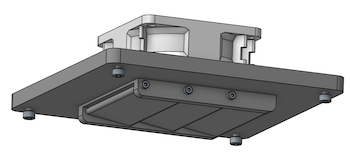
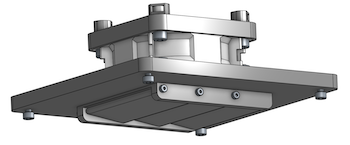
update with snorkle

diff --git a/README.md b/README.md
@@ -6,27 +6,31 @@
 [![heater](./photos/petc-heater-small.png)](./photos/petc-heater.png)
 [![psu](./photos/petc-psu-small.png)](./photos/petc-psu.png)
 [![fan](./photos/petc-fan-small.png)](./photos/petc-fan.png)
+[![fan hose coupler](./photos/petc-fan-hose-coupler-small.png)](./photos/petc-fan-hose-coupler.png)
+[![snorkle transport handle](./photos/petc-snorkle-transport-handle-small.png)](./photos/petc-snorkle-transport-handle.png)
+[![xbuddy board snorkle cover](./photos/petc-xbuddy-board-snorkle-cover-small.png)](./photos/petc-xbuddy-board-snorkle-cover.png)
 
-[(more photos)](./photos/photos) [(schematic)](./photos/petc_schematic.jpg)
+[(more photos)](https://photos.app.goo.gl/Emhybk4XVMSFG9o47) [(video)](https://youtube.com/shorts/DhWX0z7hWWk) [(schematic)](./photos/petc_schematic.jpg)
 
 This is an enclosure temperature controller for 3D printers.  I was inspired by [Lars' Automated Heating System for Original Enclosure](https://www.printables.com/model/561491-automated-heating-system-for-original-enclosure), but I wanted a different [feature set](#features).  The code and documentation of this project are under the [MIT License](./LICENSE.txt).  The mechanical CAD is an [OnShape](https://www.onshape.com) [public document](https://cad.onshape.com/documents/f44140cba6f8b67dad0ae1df/w/266792716668dc913b5493d9/e/d40b23f5562de2835c96fe1f) which has MIT-like [license terms](https://www.onshape.com/en/legal/terms-of-use).
 
 There are pros and cons to experimenting with adding active heating or cooling to the enclosure of a 3D printer that was not specifically designed for it.  Of course, there can be dangers including fire hazards and the possibility of melting parts of your printer.  **If you use the information provided here, you do so at your own risk.**  I am only experimenting with this myself, and I make no claims as to the suitability or safety of any of this information.  Until fairly recently, Stratasys held key patents regarding 3D printers with heated build chambers.  It is my understanding that these patents have now effectively [expired](https://3dprintingindustry.com/news/stratasys-heated-build-chamber-for-3d-printer-patent-us6722872b1-set-to-expire-this-week-185012).
 
-I'm using a Prusa MK4 with an [Original Prusa Enclosure](https://www.prusa3d.com/product/original-prusa-enclosure), though where possible I've tried to make the design agnostic to the specifics of the printer and enclosure.  There are some mounting features that make it fit this Prusa setup nicely, but it should be adaptable to other configurations without too much difficulty.
+I'm using a Prusa MK4S with an [Original Prusa Enclosure](https://www.prusa3d.com/product/original-prusa-enclosure), though where possible I've tried to make the design agnostic to the specifics of the printer and enclosure.  There are some mounting features that make it fit this Prusa setup nicely, but it should be adaptable to other configurations without too much difficulty.
 
 ## Heating and Cooling
-Some materials, including PLA, prefer relatively cool air temperatures.  While PLA is generally considered easy to print on non-enclosed printers, if your printer is in an enclosure, you may experience issues with PLA due to ambient heating from the printer bed.  In my experience even leaving the enclosure doors open may not always be sufficient.  This controller allows you to add a fan to your enclosure to actively exhaust the hot air and draw in more cool air from the room.
+Some materials, including PLA, prefer relatively cool air temperatures.  While PLA is generally considered easy to print on non-enclosed printers, if your printer is in an enclosure, PLA prints may have issues due to ambient heating from the printer bed.  In my experience even leaving the enclosure doors open may not always be sufficient.  This controller allows you to add a fan to your enclosure to actively exhaust the hot air and draw in more cool air from the room.
 
-Other materials, including ABS, ASA, Nylon (PA), and polycarbonate (PC), perfer relatively hot air temperatures to reduce warping and improve layer adhesion during printing.  And these materials can be desirable for some applications for their mechanical properties and temerature resistance.  This controller allows you to add an active heating element in the enclosure with closed loop control to increase the enclosure temperature more quickly and to maintain hotter temperatures than would typically be reached by the bed heater alone.
+Other materials, including ABS, ASA, Nylon (PA), and polycarbonate (PC), perfer relatively hot air temperatures to reduce warping and improve layer adhesion during printing.  And these "engineering" materials can be desirable for some applications for their mechanical properties and temerature resistance.  This controller allows you to add an active heating element in the enclosure with closed loop control to increase the enclosure temperature more quickly and to maintain hotter temperatures than would typically be reached by the bed heater alone.
 
-How hot is hot?  From what I've read, many of these materials would be happy with air temperatures in the range of 90C, and industrial printers with heated enclosures may use that type of temperature.  Unfortunately, many of the plastic and electronic parts in consumer 3D printers might become unstable at at that level.  For now this controller has a hardcoded limit of 45C, which is the same as [Lars'](https://www.printables.com/model/561491-automated-heating-system-for-original-enclosure).
+How hot is hot?  From what I've read, many of these materials would be happy with air temperatures in the range of 90C, and industrial printers with heated enclosures may use that type of temperature.  Unfortunately, many of the plastic and electronic parts in consumer 3D printers might become unstable at at that level.  However, by [some accounts](https://forum.prusa3d.com/forum/user-and-hardware-mods/heating-the-prusa-enclosure), even 40-45C can help significantly reduce warping in ABS and ASA prints.
 
-Of course there are a wide variety of printers now available, and some may be more compatible with higher temperatures than others.  Apparently Prusa [recommends a maximum enclosure temperature of 40C](https://forum.prusa3d.com/forum/postid/630914) for MK3S+, which ships with PETG parts with relatively poor high temperature stability.  This also probably applies to MK4, though Prusa is now switching some of the PETG parts to PC-CF on the MK4S, which has better stability at high temperatures.
+This controller initially had a hardcoded limit of 45C, which is the same as [Lars'](https://www.printables.com/model/561491-automated-heating-system-for-original-enclosure).  Temperatures higher than that tend to trigger automatic shutdown of the xBuddy control board on the Prusa MK4(S).  Also, most of the MK4 and MK4S printed parts from Prusa are made with PETG, which has relatively poor high temperature stability.  I eventally replaced all the PETG parts with PC-CF, which has better temperature stability, and added a "snorkle" setup which cools the buddy board with outside air, re-using the exhaust fan to pull the air through the snorkle.  This appears to allow enclosure temperatures up to about 60-65C.
 
-By [some accounts](https://forum.prusa3d.com/forum/user-and-hardware-mods/heating-the-prusa-enclosure) even 40-45C can help significantly reduce warping in ABS and ASA prints.  It might be possible to attempt up to around 60C by replacing plastic parts on the printer with higher temperature materials.  Several recent consumer 3D printers with heated enclosures reach temperatures around that, for example some [QiDi](https://qidi3d.com) printers go up to 60C or 65C, and the newly announded [Prusa Core One](https://www.prusa3d.com/product/prusa-core-one) has a heated enclosure with a 55C maximum temperature.
+There are a wide variety of printers now available, and some may be more suitable for higher temperatures than others.  Some [QiDi](https://qidi3d.com) printers go up to 60C or 65C.  The [Prusa Core One](https://www.prusa3d.com/product/prusa-core-one) can reach a maximum temperature of 55C, but is only heated "passively" by the print bed.  Apparently Prusa [recommends a maximum enclosure temperature of 40C](https://forum.prusa3d.com/forum/postid/630914) for MK3S+, though this may at least be in part due to the PETG parts.  This also probably applies to MK4, though Prusa is now switching some of the PETG parts to PC-CF on the MK4S.
 
-The 200W heating element seems able to easily maintain 44-45C during printing, but can take up to about an hour to initially heat up to that level from ~22C room temperature, even when also using the [heat bed set to 120C](./prusa-mk4-bed-preheat-120c-90m.gcode) to supplement the preheating.  I have [sealed](https://www.printables.com/model/537013-0073-xrivets-for-original-prusa-enclosure-ope-extr) most of the holes in the Original Prusa Enclosure but haven't yet added any insulation.
+
+The 300W heating element seems can take up to about an hour to initially preheat the chamber up to ~60C from room temperature, even when also using the [heat bed set to 120C](./prusa-mk4-bed-preheat-120c-90m.gcode) to supplement the preheating.  I have [sealed](https://www.printables.com/model/537013-0073-xrivets-for-original-prusa-enclosure-ope-extr) most of the holes in the Original Prusa Enclosure.  I also added reflective bubble foil [insulation](https://www.homedepot.com/p/Everbilt-24-in-x-10-ft-Double-Reflective-Insulation-Radiant-Barrier-24x10DRI/314983628) (rated to about 70C) inside the left, right, and rear walls, and a blanket of fiberglass insulation (stable up to about 500C) above the top of the enclosure.
 
 ## Features
 * printable parts designed in [OnShape](https://cad.onshape.com/documents/f44140cba6f8b67dad0ae1df/w/266792716668dc913b5493d9/e/d40b23f5562de2835c96fe1f)
@@ -34,13 +38,15 @@ The 200W heating element seems able to easily maintain 44-45C during printing, b
 * up to 8 hot pluggable daisy chained [DS18B20 1-Wire temperature sensors](https://www.sparkfun.com/products/18367) with 6ft leads
 * optional hot pluggable [DHT20 I2C temperature and humidity sensor](https://www.sparkfun.com/products/18364)
 * auto shutoff timer
-* multiple material profiles (e.g. cooling mode for PLA, heating mode for ABS, etc)
+* multiple material profiles (cooling mode for PLA, heating mode for ABS, etc)
 * front panel user interface with LCD and buttons shows current average temperature, min and max sensor temps, current humidity, current settings, and allows changing the profile, setting the shutoff timer, and manual adjustments to the operating mode and set temperatures
 * USB serial interface, can plug into e.g. a Raspberry PI TODO to expose a remote web interface
 * electronics box and power supply located outside the enclosure
-* can be built only for sensing, sensing+heating, sensing+cooling, or sensing+heating+cooling
+* can be built only for sensing, sensing+heating, sensing+cooling, sensing+heating+cooling, or sensing+heating+cooling+snorkle
 * optional exhaust fan for cooling mode
-* optional 200W 24V automotive [PTC heater](https://www.amazon.com/gp/product/B081P7L32X) with fan for heating mode
+* cooling fan exhaust flaps open passively with airflow and close with gravity
+* optional snorkle uses the cooling fan to pull in outside air to cool only the Prusa "xBuddy board" enclosure
+* optional 300W 24V automotive [PTC heater](https://www.amazon.com/gp/product/B081P7L32X) with fan for heating mode
 * no 3D printed parts touch the heater
 * optional LED to indicate when heater is active
 * hardware thermal cutoff attached to heater as a failsafe
@@ -57,7 +63,7 @@ It should also be possible to use this design as a starting point for various ot
 
 ## Building the Code
 
-If on OS X:
+OS X:
 ```
 brew install arduino-cli
 ```
@@ -106,16 +112,18 @@ arduino-cli compile --fqbn arduino:avr:uno -e -u -p /dev/cu.usbserial-110 .
 
 ## Hardware Installation
 
-Here are some images of the installed components in my setup.  The control box is mounted to the outside of the enclosure in the lower front left.  The heater and its fan are on an articulated mount halfway up the right rear corner of the enclosure.  The exhaust fan is mounted to the back in a cutout provided in the Prusa enclosure.  The heater and fan power supply is on the outside of the left side of the enclosure (also shown in the photo is a Raspberry Pi I've mounted to that side of the enclosure for cameras and TODO to make the temperature controller accessible on my local nework).  Wires are routed through and under the enclosure.  The sensors are not shown in the photos: a combined temperature and humidity sensor is mounted inside the enclosure at the lower front center.  Additional temperature sensors are (1) halfway up the front left corner, (2) two thirds of the way back on the lower left, (3) above the heater near the top of the enclosure.  The control software averages the readings of all the temperature sensors with optional weights.
+Here are some images of the installed components in my setup.  The control box is mounted to the outside of the enclosure in the lower front left.  The heater and its fan are on an articulated mount halfway up the right rear corner of the enclosure.  The exhaust fan is mounted to the back in a cutout provided in the Prusa enclosure.  The heater and fan power supply is on the outside of the left side of the enclosure; also shown in the photo is a Raspberry Pi I've mounted to that side of the enclosure for cameras and TODO to make the temperature controller accessible on the local nework.  Wires are routed through and under the enclosure, and no new holes need to be drilled.  The sensors are hard to see in the photos, but are more visibile in the [video](https://youtube.com/shorts/DhWX0z7hWWk).  A combined temperature and humidity sensor is mounted inside the enclosure at the lower front center.  Additional temperature sensors are (1) halfway up the front left corner, (2) two thirds of the way back on the lower left, and (3) above the heater near the top of the enclosure.  The control software averages the readings of all the temperature sensors with optional weights to estimate the temperature in the build volume.
 
-[![front view installed](./photos/petc-installed-front-small.png)](./photos/petc-installed-front-small.png)
-[![fan and psu installed](./photos/petc-installed-fan-and-psu-small.png)](./photos/petc-installed-fan-and-psu.png)
-[![controller installed](./photos/petc-installed-controller-small.png)](./photos/petc-installed-controller.png)
-[![heater installed](./photos/petc-installed-heater-small.png)](./photos/petc-installed-heater-small.png)
+[![controller installed](./photos/petc-installed-controller-small.jpg)](./photos/petc-installed-controller.jpg)
+[![snorkle installed](./photos/petc-installed-snorkle-small.jpg)](./photos/petc-installed-snorkle.jpg)
+[![front view installed](./photos/petc-installed-front-small.jpg)](./photos/petc-installed-front.jpg)
+[![back view installed](./photos/petc-installed-back-small.jpg)](./photos/petc-installed-back.jpg)
+[![side view installed](./photos/petc-installed-side-small.jpg)](./photos/petc-installed-side.jpg)
+[![heater installed](./photos/petc-installed-heater-small.jpg)](./photos/petc-installed-heater.jpg)
 
-The assembly should be mostly self-evident from the [CAD model](https://cad.onshape.com/documents/f44140cba6f8b67dad0ae1df/w/266792716668dc913b5493d9/e/d40b23f5562de2835c96fe1f) and the [photos](./photos).  A fair level of experience with electronics is needed. The [BOM](#bill-of-materials) is also annotated with some tips.
+The assembly should be mostly self-evident from the [CAD model](https://cad.onshape.com/documents/f44140cba6f8b67dad0ae1df/w/266792716668dc913b5493d9/e/d40b23f5562de2835c96fe1f) and the [photos](https://photos.app.goo.gl/Emhybk4XVMSFG9o47).  A fair level of experience with electronics is needed. The [BOM](#bill-of-materials) is also annotated with some tips.
 
-Heat-set inserts or nuts are popular ways to add threaded holes to 3D printed parts.  However, with most materials other than PLA, it also usually works to just directly tap threads.  This is generally my preference: it's less complex to design, usually more compact, reduces part count, and costs less once you have the taps.
+Heat-set inserts or nuts are popular ways to add threaded holes to 3D printed parts.  However, with most materials other than PLA, it also usually works to just directly tap threads into the plastic using a standard metal thread tap.  This is generally my preference: it's less complex to design, usually more compact, reduces part count, and costs less once you have the taps.
 
 The tapped holes in the 3D printed parts for this project are all sized for M2/2-56, M3/4-40, or M4/8-32 tap diameter.  M3 tap diameter is about 0.010 inch (about 0.25mm) larger than the theoretical 4-40 tap diameter, however, the actual tolerance of the part will likely vary more than that, and perfect thread engagement is not required.  Similarly, 8-32 tap diameter about 0.007 inch (about 0.2mm) larger than M4, and 2-56 tap diameter is about 0.007 inch larger than M2.  You will likely want need a 2-56 or M2, 4-40 or M3, and 8-32 or M4 tap to form the threads.  I usually dip the taps in water periodically to lubricate, clean, and cool them.
 
@@ -138,7 +146,7 @@ Prices shown are approximate at time of writing not including tax or shipping.  
 1. TE Connectivity / Corocom [15CBS1](https://www.te.com/en/product-1-1609112-3.html) (aka 1-1609112-3) IEC 320-C14 AC power entry module with switch, 13USD ([mouser](https://mou.sr/3ChMV0O)).  Similar units might be available for lower cost from other sources, but it might be wise to at least try to get this as a genuine part from a reputable supplier.
 1. Any reasonable C13 style power cord; I used one from my junk box, but this 7USD [Amazon basics 6ft](https://www.amazon.com/Amazon-Basics-Computer-Monitor-Replacement/dp/B072BYGKZZ) one is probably fine if you live in the US.
 1. SparkFun [Beefcake Relay](https://www.sparkfun.com/products/13815), 10USD.  This is used to switch the high current 24V to the heater.  If you only want cooling, this is optional.
-1. Bestol 200W 24V automotive [PTC heater](https://www.amazon.com/gp/product/B081P7L32X) for heating mode, 24USD.
+1. Bestol 300W 24V automotive [PTC heater](https://www.amazon.com/dp/B081NQF38F) for heating mode, 24USD.
 1. Normally closed PTC thermostat, 95C opening temperature, 16A current rating, 8USD [mouser](https://www.mouser.com/ProductDetail/256-24T01B1P1953755).  Optional but recommended if you are using the heater.  This is intended to be a fallback safety measure to prevent the heater assembly from getting too hot.  Similar units might be available for lower cost from other sources, but it might be wise to at least try to get this as a genuine part from a reputable supplier.
 1. Any standad 20mA 5mm LED or similar, plus a 1/2 watt 1k resistor to indicate when the heater is active (optional).
 1. Same Sky (formerly CUI) [CFM-6025BF-235-274-22](https://www.sameskydevices.com/product/thermal-management/dc-fans/axial-fans/cfm-6025bf-235-274-22) 24V 4 wire fan 13USD/ea ([mouser](https://mou.sr/3YSNuHb)).  Up to two are supported, one for cooling and one for heating.  This particular fan
@@ -150,6 +158,7 @@ Prices shown are approximate at time of writing not including tax or shipping.  
     * can accept the default 0.5kHz Arduino PWM frequency; apparently some other similar fans require much higher frequency PWM, which is possible but requires custom code.
 1. 1/2 inch split sleeve wire loom, 40USD [for 25ft](https://www.amazon.com/dp/B07HXSSBHB).  Optional but improves the appearance and durability of the the 24V cables.
 1. Heat shrink tubing, 12USD for a [180 piece assortment](https://www.amazon.com/dp/B084GDLSCK).  For insulating and stress relieving connections.
+1. 1.5 inch diameter [corrugated flexible conduit](https://www.amazon.com/dp/B078KHDTJK) for the snorkle, 30USD for 10 feet.  The snorkle is optional but enables temperatures above 45C for Prusa MK4(S).
 1. 26AWG hookup wire for making a few connections inside the control box.
 1. PC fan connector male/female extension cables, 9USD for a [four pack](https://www.amazon.com/dp/B0CNLDNZB2).  Cut two of these in half to make pigtails and connectors for the two fans.
 1. 10ft good quality USB 2.0 cables, 26USD for a [four pack](https://www.amazon.com/dp/B07D6JQFLG).  Use one of these for the USB power/data pigtail from the control box.  Cut others up to make extension cables for the fans and the DHT20 sensor.
@@ -168,5 +177,8 @@ Prices shown are approximate at time of writing not including tax or shipping.  
 1. Eight M3x6 or 4-40x1/4 socket cap screws for the control box.  There is a close clearance on one of the screw heads to a header component on the RedBoard and I found that the 4-40 screw head fit better there than M3.  However, it would also probably be fine to just leave that one screw out.
 1. Two M3x8, M3x10, 4-40x5/16, or 4-40x3/8 socket head cap screws for attaching the control box to the front of the Original Prusa Enclosure.
 1. Two or four M4x8 or 8-32x5/16 socket cap screws to mount the cooling fan.
+1. Four M4x8 or 8-32x5/16 socket cap screws to mount the snorkle magnets to the cooling fan.
+1. Eight 6x3mm [magnets](https://www.amazon.com/dp/B08M3YP56J) $6USD/50pcs, to removably attach the snorkle to the cooling fan.
+1. Six M3x8 or 8-32x5/16 socket cap screws to attach the xBuddy snorkle parts to each other.
 1. Six M2x12 or 2-56x1/2 socket cap screws to mount the cooling fan flaps.
 1. Four M3x8, M3x10, 4-40x5/16, or 4-40x3/8 socket cap screws to mount the cooling fan assembly to the Original Prusa Enclosure.
